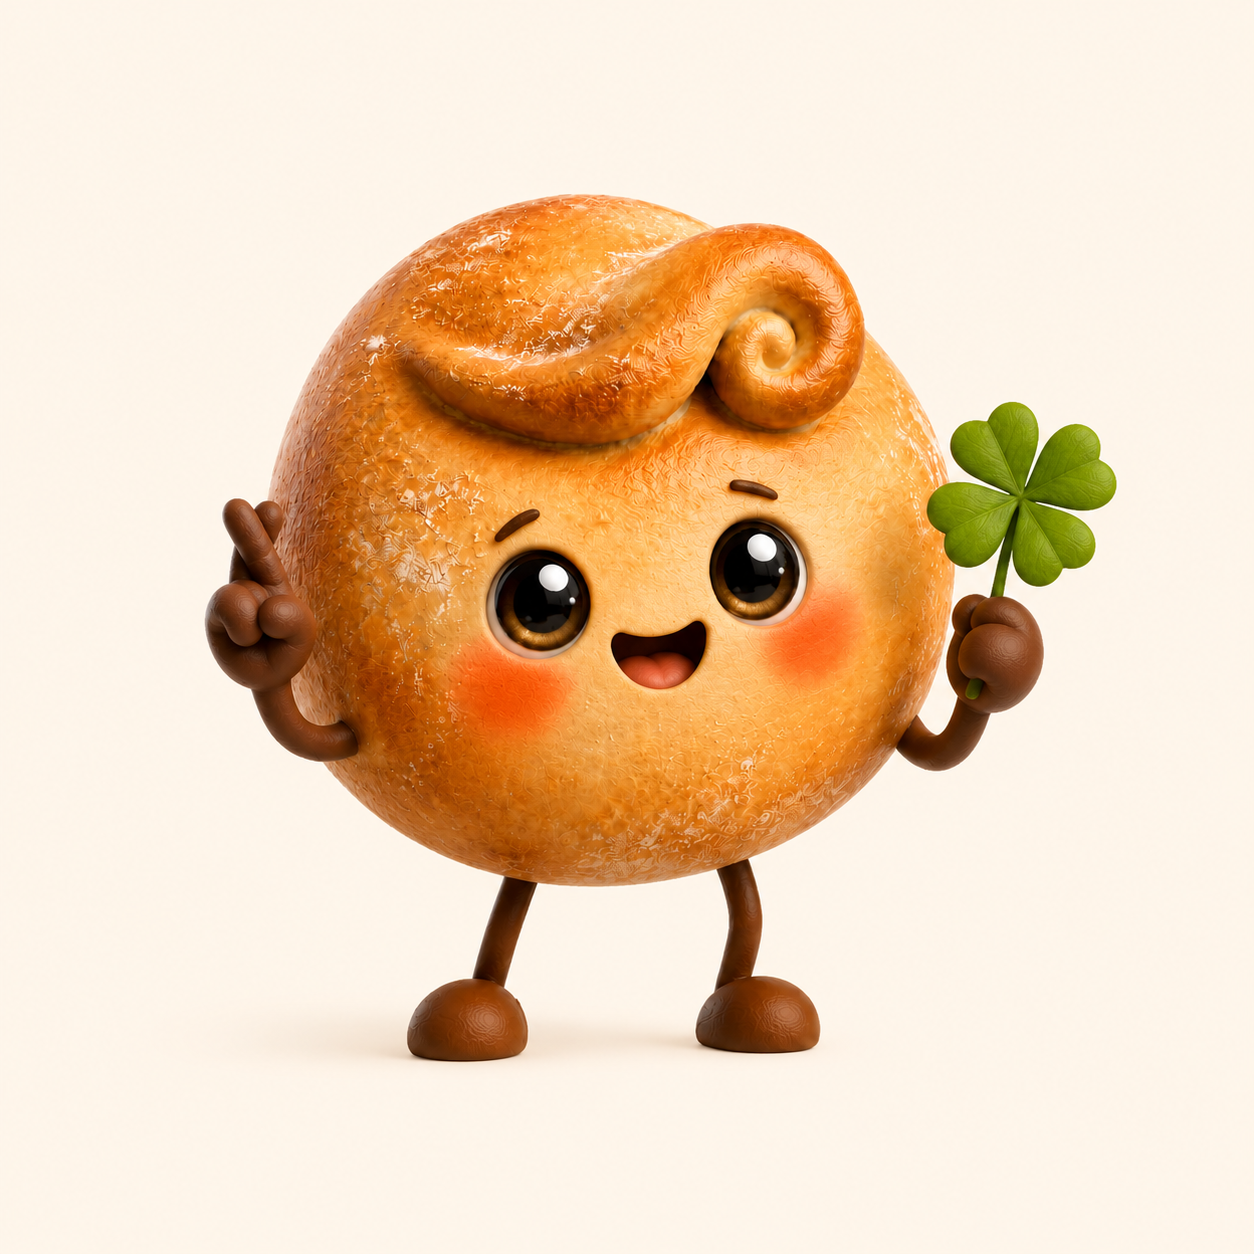
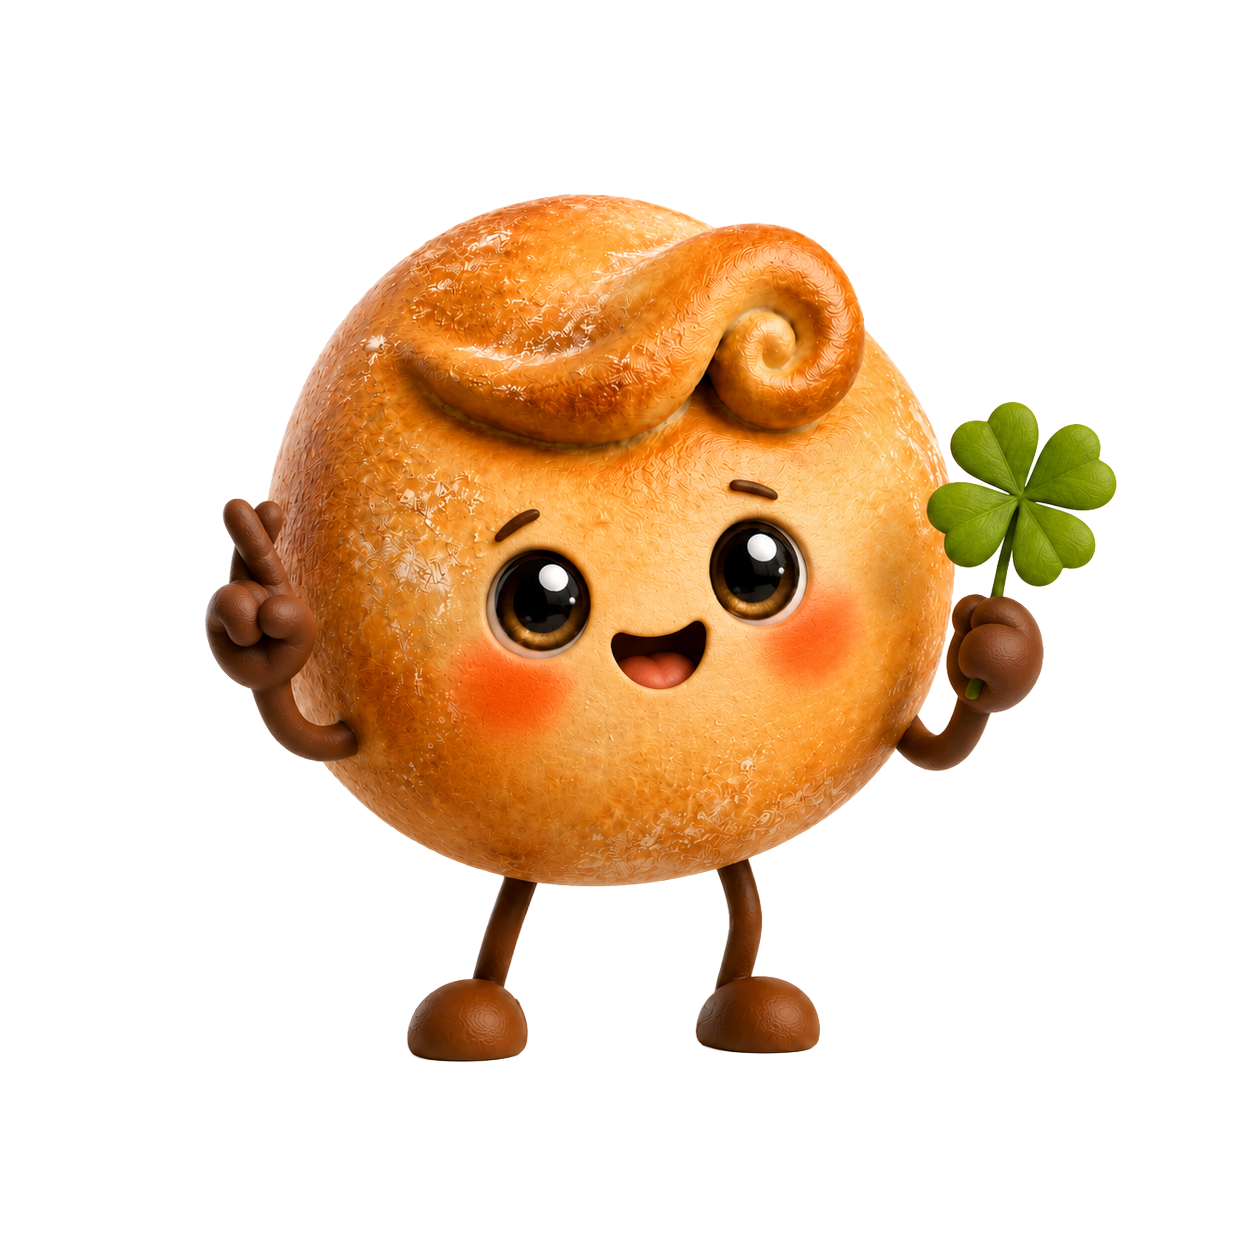
fix(antojame): Sorprendeme path, títulos tapados, fondos blancos en Step 3
Tres bugs visibles en la versión v3:

1. Sorprendeme.png: el archivo real es "Sorprendeme.png" (sin acento)
   pero el path tenía "Sorpr%C3%A9ndeme.png" → 404 → imagen rota.
   Path corregido.

2. Step 1 — títulos "Para mí" y "Es un regalo" tapados por la Miga:
   - OptionCard pt-14 → pt-20 (padding superior +50%)
   - Miga w-36 → w-32 (un poco más chica)
   - Miga -top-14 → -top-16 (más arriba)
   - Resultado: Miga visible saliendo del card sin invadir el título.

3. Step 3 — Migas con fondo blanco visible (las imágenes no son PNG
   transparente):
   - Aplicado mixBlendMode: "multiply" al wrapper de la imagen.
   - El blanco se disuelve contra el color del card.
   - El cuerpo oscuro de Miga puede tintarse ligeramente con el
     color del fondo — trade-off aceptable hasta que existan PNG
     transparentes.
   - pt-20 → pt-24 para más respiración.

Pendiente futuro: regenerar A-la-segura.png, Sorprendeme.png y
Probar-suerte.png con fondo transparente (igual que las imágenes
de Step 1) para colores 100% fieles sin necesidad de blend mode.

diff --git a/src/app/antojame/page.tsx b/src/app/antojame/page.tsx
@@ -121,7 +121,7 @@ const OPTIONS_ATTITUDE = [
   },
   {
     key: "sorpresa" as Attitude,
-    image: "/mascota/antojame/Sorpr%C3%A9ndeme.png",
+    image: "/mascota/antojame/Sorprendeme.png",
     label: "Sorpréndeme",
     sub: "Algo distinto",
     bg: "#ED99B5",
@@ -619,7 +619,7 @@ function OptionCard({
   return (
     <button
       onClick={onClick}
-      className={`option-card relative pt-14 px-3 pb-4 rounded-3xl text-center flex flex-col items-center ${
+      className={`option-card relative pt-20 px-3 pb-4 rounded-3xl text-center flex flex-col items-center ${
         active ? "is-active" : ""
       }`}
       style={{
@@ -630,9 +630,10 @@ function OptionCard({
           : `0 12px 24px ${hexA(accent, 0.22)}, inset 0 -3px 10px ${hexA(accent, 0.14)}, inset 0 2px 0 rgba(255,255,255,0.3)`,
       }}
     >
-      {/* Miga DESBORDA — scale por opción para normalizar */}
+      {/* Miga DESBORDA — scale por opción para normalizar. Posicionada
+          arriba lo suficiente para que NUNCA tape el título. */}
       <div
-        className="absolute -top-14 left-1/2 -translate-x-1/2 w-36 h-36 transition-transform duration-300"
+        className="absolute -top-16 left-1/2 -translate-x-1/2 w-32 h-32 transition-transform duration-300"
         style={{ transform: `translate(-50%, 0) scale(${scale})` }}
       >
         <Image
@@ -700,7 +701,7 @@ function AttitudeCard({
   return (
     <button
       onClick={onClick}
-      className={`option-card relative rounded-[28px] text-center overflow-visible flex flex-col items-center pt-20 pb-5 px-4 ${
+      className={`option-card relative rounded-[28px] text-center overflow-visible flex flex-col items-center pt-24 pb-5 px-4 ${
         active ? "is-active" : ""
       }`}
       style={{
@@ -711,22 +712,21 @@ function AttitudeCard({
           : `0 14px 28px ${hexA(accent, 0.24)}, inset 0 -4px 12px ${hexA(accent, 0.14)}, inset 0 2px 0 rgba(255,255,255,0.3)`,
       }}
     >
-      {/* Miga cortada a la cintura: sale por arriba */}
+      {/* Miga emerge por arriba. Como estas imágenes tienen fondo blanco
+          (no son PNG transparentes como las de Step 1), aplicamos
+          mix-blend-mode: multiply para que el blanco se DISUELVA contra
+          el color del card. La Miga queda flotando "dentro" del color
+          naturalmente. */}
       <div
-        className="absolute -top-16 left-1/2 -translate-x-1/2 w-44 h-44 overflow-hidden"
-        style={{
-          maskImage:
-            "linear-gradient(to bottom, black 0%, black 78%, transparent 100%)",
-          WebkitMaskImage:
-            "linear-gradient(to bottom, black 0%, black 78%, transparent 100%)",
-        }}
+        className="absolute -top-14 left-1/2 -translate-x-1/2 w-36 h-36"
+        style={{ mixBlendMode: "multiply" }}
       >
         <Image
           src={image}
           alt={label}
           fill
-          sizes="176px"
-          className="object-contain object-top drop-shadow-xl"
+          sizes="144px"
+          className="object-contain object-top"
         />
       </div>
 